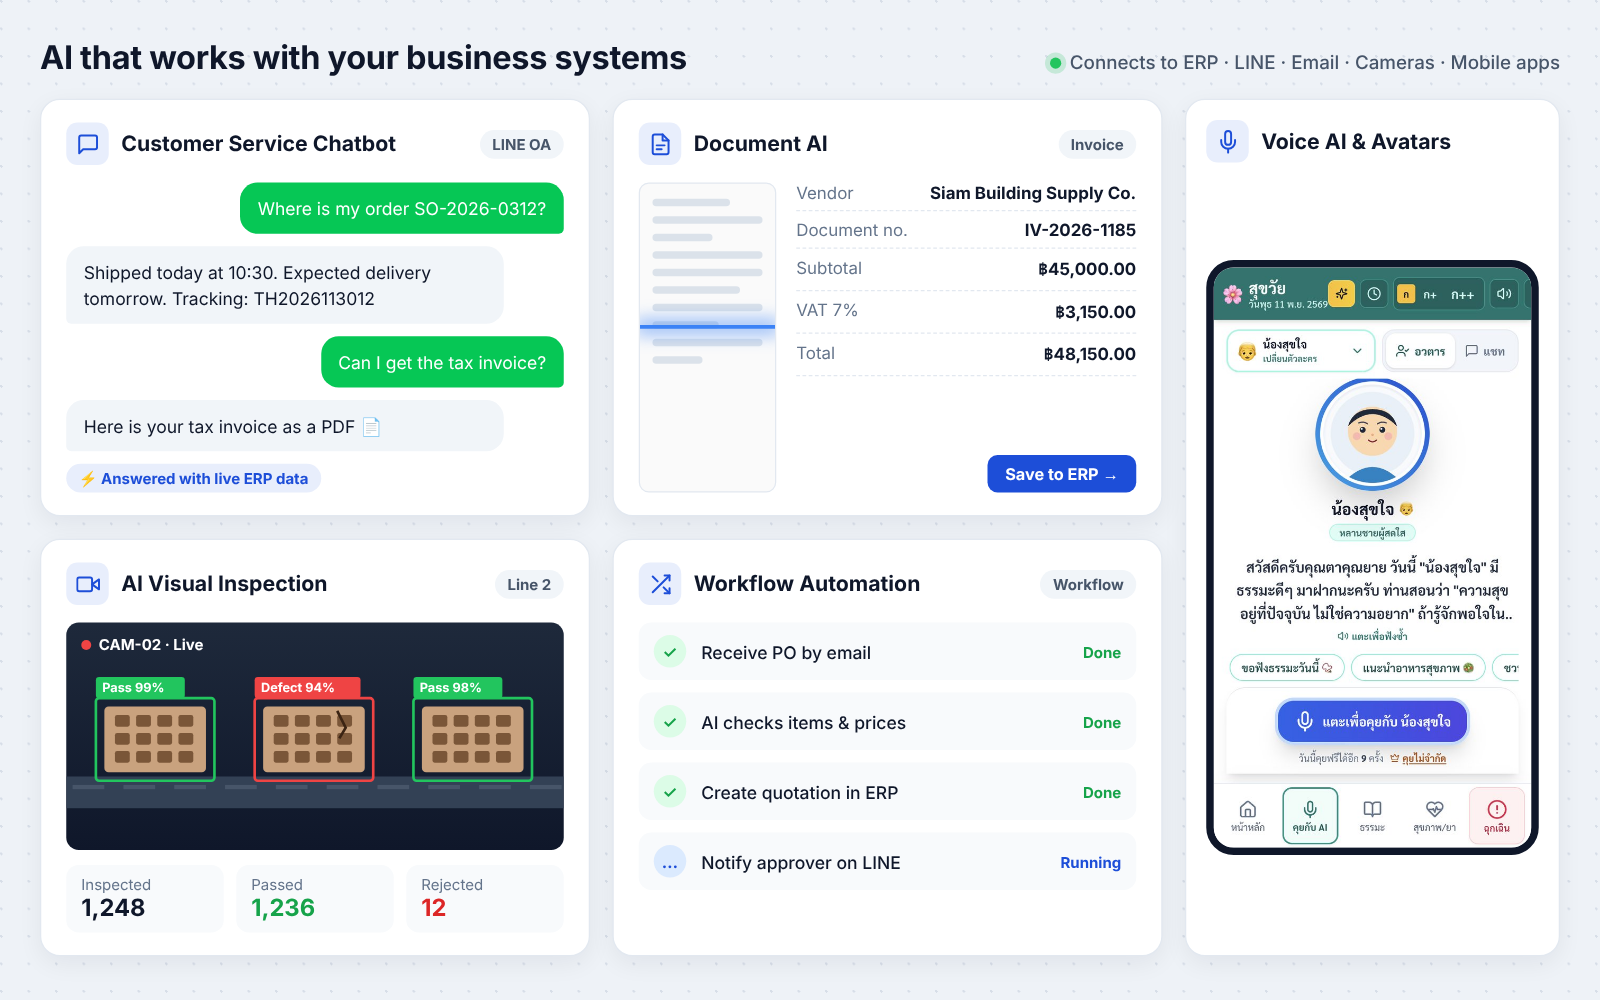
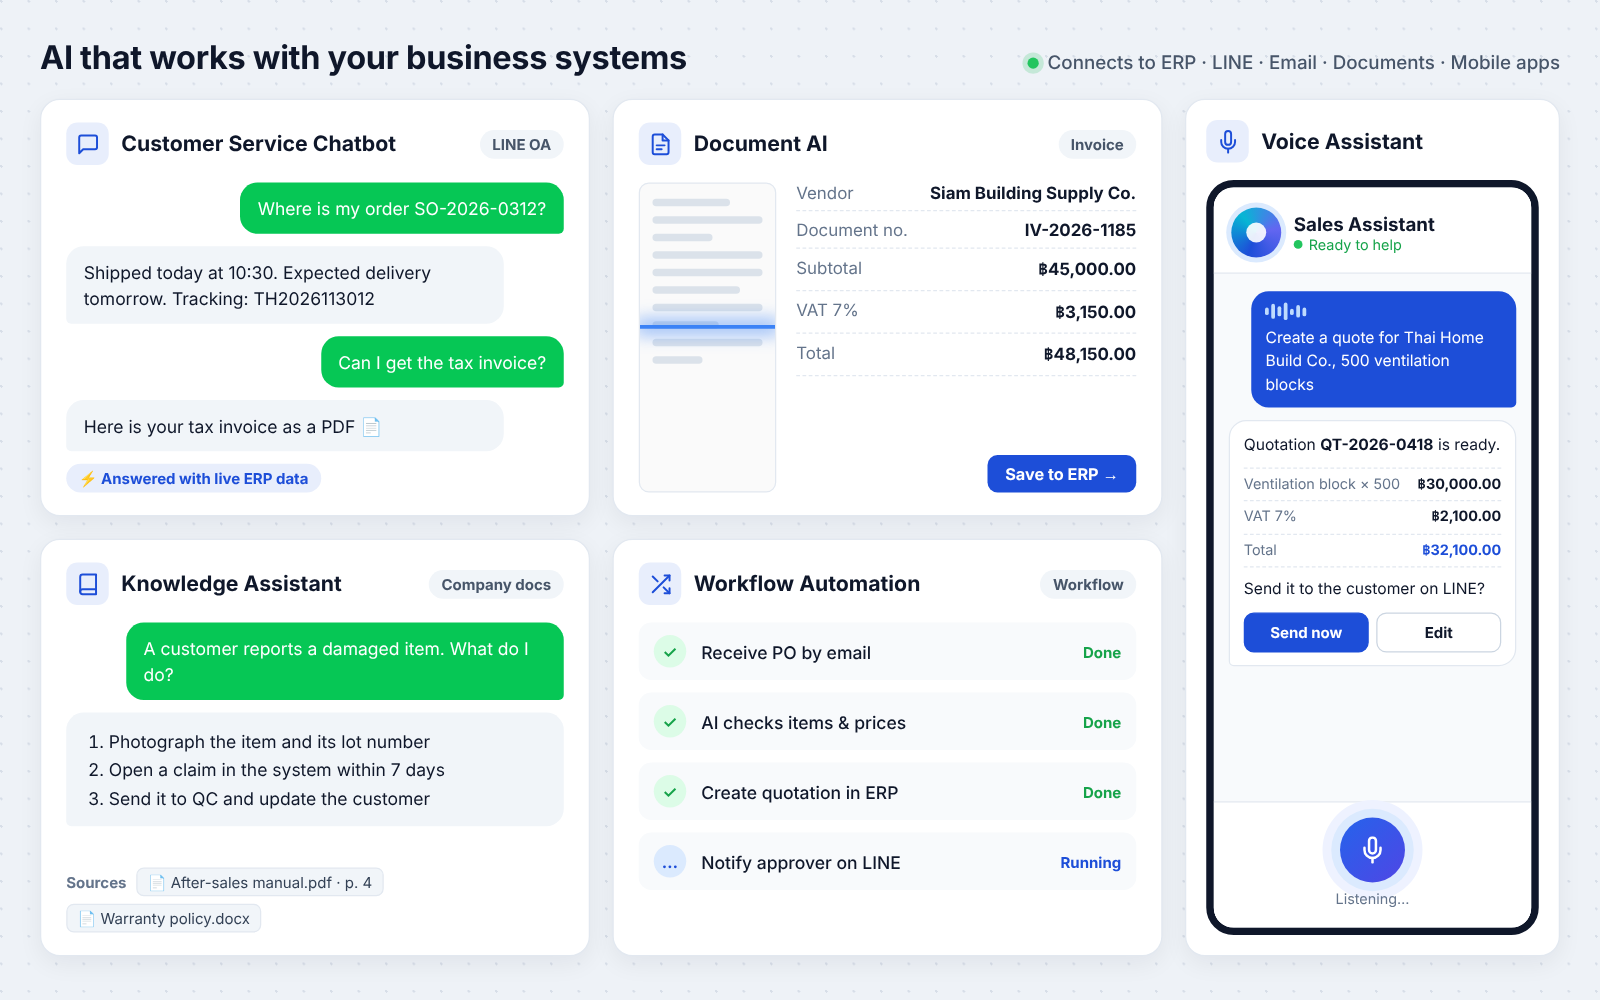
content: separate Custom AI Applications from AI & ML; business voice assistant mock (TH/EN)
- Rename section to Custom AI Applications; replace vision item with Knowledge Assistant
- Move visual inspection into AI & ML copy; add cross-link
- Illustration: drop visual-inspection card, add knowledge assistant and sales voice assistant screen

Claude-Session: https://claude.ai/code/session_01Tof1QfzcKtpyuhHxKaRS56

diff --git a/solutions/index.html b/solutions/index.html
@@ -4,7 +4,7 @@
   <meta charset="utf-8">
   <meta name="viewport" content="width=device-width, initial-scale=1.0">
   <title>Core Services — NWS</title>
-  <meta name="description" content="Core services from NWS: Ora One (Intelligent ERP with EMMY AI), B2B Managed IT Service (MSP), AI &amp; Machine Learning solutions, and custom AI services.">
+  <meta name="description" content="Core services from NWS: Ora One (Intelligent ERP with EMMY AI), B2B Managed IT Service (MSP), AI &amp; Machine Learning solutions, and custom AI applications.">
   <link rel="canonical" href="https://nwsthai.com/solutions/">
   <meta name="robots" content="index, follow">
   <meta property="og:title" content="Core Services — NWS">
@@ -195,8 +195,8 @@
             <div class="feature-tag"><span class="th">AI &amp; Machine Learning</span><span class="en">AI &amp; Machine Learning</span></div>
             <h2><span class="th">AI &amp; Machine Learning Solutions</span><span class="en">AI &amp; Machine Learning Solutions</span></h2>
             <p>
-              <span class="th">การวิเคราะห์ข้อมูลเชิงลึกสำหรับการดำเนินงานหน้างาน และโมเดลคาดการณ์ความเสี่ยง เพื่อให้องค์กรตัดสินใจได้แม่นยำ ทันเวลา และได้ผลลัพธ์ที่จับต้องได้จริง</span>
-              <span class="en">Deep data analytics for shop-floor operations and predictive risk models, so your organization can make accurate, timely decisions with tangible results.</span>
+              <span class="th">การวิเคราะห์ข้อมูลเชิงลึกสำหรับการดำเนินงานหน้างาน ระบบตรวจสอบคุณภาพด้วยกล้อง AI และโมเดลคาดการณ์ความเสี่ยง เพื่อให้องค์กรตัดสินใจได้แม่นยำ ทันเวลา และได้ผลลัพธ์ที่จับต้องได้จริง</span>
+              <span class="en">Deep data analytics for shop-floor operations, AI-powered visual inspection, and predictive risk models, so your organization can make accurate, timely decisions with tangible results.</span>
             </p>
             <ul class="checklist">
               <li>
@@ -211,8 +211,8 @@
               </li>
               <li>
                 <svg viewBox="0 0 24 24" fill="none" stroke="currentColor" stroke-width="2.5" stroke-linecap="round" stroke-linejoin="round"><path d="M22 11.08V12a10 10 0 1 1-5.93-9.14"/><polyline points="22 4 12 14.01 9 11.01"/></svg>
-                <span><strong><span class="th">ข้อมูลสู่การปฏิบัติ</span><span class="en">Actionable Insights</span></strong><br>
-                <span class="th">เปลี่ยนข้อมูลดิบให้เป็นการตัดสินใจที่ลงมือทำได้จริง</span><span class="en">Turn raw data into decisions you can act on.</span></span>
+                <span><strong><span class="th">ตรวจคุณภาพด้วยกล้อง AI</span><span class="en">AI Visual Inspection</span></strong><br>
+                <span class="th">ตรวจจับชิ้นงานและตำหนิแบบเรียลไทม์บนไลน์ผลิต</span><span class="en">Detect parts and defects in real time on the production line.</span></span>
               </li>
               <li>
                 <svg viewBox="0 0 24 24" fill="none" stroke="currentColor" stroke-width="2.5" stroke-linecap="round" stroke-linejoin="round"><path d="M22 11.08V12a10 10 0 1 1-5.93-9.14"/><polyline points="22 4 12 14.01 9 11.01"/></svg>
@@ -234,10 +234,10 @@
         <div class="feature">
           <div>
             <div class="feature-tag"><span class="th">AI Services</span><span class="en">AI Services</span></div>
-            <h2><span class="th">บริการพัฒนา AI สำหรับทุกธุรกิจ</span><span class="en">Custom AI Services for Every Business</span></h2>
+            <h2><span class="th">พัฒนาแอปพลิเคชัน AI ตามโจทย์</span><span class="en">Custom AI Applications</span></h2>
             <p>
-              <span class="th">เราออกแบบและพัฒนาโซลูชัน AI ให้ตรงกับโจทย์ของแต่ละองค์กร ไม่ว่าจะเป็นงานบริการ การผลิต สุขภาพ หรืองานภายในองค์กร ตั้งแต่วางแนวคิด พัฒนา เชื่อมต่อกับระบบเดิม ไปจนถึงดูแลหลังใช้งานจริง</span>
-              <span class="en">We design and build AI solutions around each organization’s needs, whether in services, manufacturing, healthcare, or internal operations. We handle everything from concept and development to integration with your existing systems and ongoing support.</span>
+              <span class="th">เราออกแบบและพัฒนาแอปพลิเคชัน AI ที่คนในองค์กรและลูกค้าใช้งานได้จริงทุกวัน ไม่ว่าจะเป็นงานบริการ การขาย สุขภาพ หรืองานภายในองค์กร ตั้งแต่วางแนวคิด พัฒนา เชื่อมต่อกับระบบเดิม ไปจนถึงดูแลหลังใช้งานจริง หากต้องการวิเคราะห์ข้อมูลเชิงลึก โมเดลคาดการณ์ หรือกล้องตรวจคุณภาพ ดูที่ AI &amp; Machine Learning Solutions ด้านบน</span>
+              <span class="en">We design and build AI applications that your staff and customers use every day, in services, sales, healthcare, or internal operations. We handle everything from concept and development to integration with your existing systems and ongoing support. For deep data analytics, predictive models, or visual inspection, see AI &amp; Machine Learning Solutions above.</span>
             </p>
             <ul class="checklist">
               <li>
@@ -247,13 +247,13 @@
               </li>
               <li>
                 <svg viewBox="0 0 24 24" fill="none" stroke="currentColor" stroke-width="2.5" stroke-linecap="round" stroke-linejoin="round"><path d="M22 11.08V12a10 10 0 1 1-5.93-9.14"/><polyline points="22 4 12 14.01 9 11.01"/></svg>
-                <span><strong><span class="th">AI ด้านภาพและวิดีโอ</span><span class="en">Computer Vision</span></strong><br>
-                <span class="th">ตรวจจับ นับจำนวน และตรวจสอบคุณภาพจากกล้องหรือภาพถ่าย</span><span class="en">Detection, counting, and quality inspection from cameras and images.</span></span>
+                <span><strong><span class="th">ผู้ช่วยความรู้ในองค์กร</span><span class="en">Knowledge Assistant</span></strong><br>
+                <span class="th">ถามตอบจากคู่มือ นโยบาย และเอกสารภายใน พร้อมบอกแหล่งอ้างอิง</span><span class="en">Answers from your manuals, policies, and internal documents, with sources.</span></span>
               </li>
               <li>
                 <svg viewBox="0 0 24 24" fill="none" stroke="currentColor" stroke-width="2.5" stroke-linecap="round" stroke-linejoin="round"><path d="M22 11.08V12a10 10 0 1 1-5.93-9.14"/><polyline points="22 4 12 14.01 9 11.01"/></svg>
-                <span><strong><span class="th">AI สำหรับเอกสารและข้อมูล</span><span class="en">Document &amp; Data AI</span></strong><br>
-                <span class="th">อ่านเอกสาร สรุปเนื้อหา ค้นหาความรู้ในองค์กร และวิเคราะห์ข้อมูล</span><span class="en">Read documents, summarize content, search company knowledge, and analyze data.</span></span>
+                <span><strong><span class="th">AI สำหรับเอกสาร</span><span class="en">Document AI</span></strong><br>
+                <span class="th">อ่านใบแจ้งหนี้ ใบสั่งซื้อ และสัญญา ดึงข้อมูลสำคัญและสรุปเนื้อหาอัตโนมัติ</span><span class="en">Read invoices, purchase orders, and contracts; extract key data and summarize automatically.</span></span>
               </li>
               <li>
                 <svg viewBox="0 0 24 24" fill="none" stroke="currentColor" stroke-width="2.5" stroke-linecap="round" stroke-linejoin="round"><path d="M22 11.08V12a10 10 0 1 1-5.93-9.14"/><polyline points="22 4 12 14.01 9 11.01"/></svg>
@@ -263,8 +263,8 @@
             </ul>
           </div>
           <div class="feature-media">
-            <img class="th" src="/assets/ai-services-th.png" alt="ตัวอย่างงาน AI สำหรับธุรกิจ: แชทบอท AI อ่านเอกสาร กล้อง AI ตรวจคุณภาพ ระบบอัตโนมัติ และผู้ช่วยเสียง" width="1600" height="1000" loading="lazy">
-            <img class="en" src="/assets/ai-services-en.png" alt="Business AI examples: customer chatbot, document AI, visual inspection, workflow automation, and voice AI" width="1600" height="1000" loading="lazy">
+            <img class="th" src="/assets/ai-services-th.png" alt="ตัวอย่างแอปพลิเคชัน AI สำหรับธุรกิจ: แชทบอท AI อ่านเอกสาร ผู้ช่วยความรู้ในองค์กร ระบบอัตโนมัติ และผู้ช่วยฝ่ายขายสั่งงานด้วยเสียง" width="1600" height="1000" loading="lazy">
+            <img class="en" src="/assets/ai-services-en.png" alt="Business AI application examples: customer chatbot, document AI, knowledge assistant, workflow automation, and a voice sales assistant" width="1600" height="1000" loading="lazy">
           </div>
         </div>
       </div>
@@ -309,7 +309,7 @@
             <li><a href="/solutions/#ora-one"><span class="th">Ora One (Intelligent ERP)</span><span class="en">Ora One (Intelligent ERP)</span></a></li>
             <li><a href="/solutions/#msp"><span class="th">B2B Managed IT (MSP)</span><span class="en">B2B Managed IT (MSP)</span></a></li>
             <li><a href="/solutions/#ai"><span class="th">AI &amp; Machine Learning</span><span class="en">AI &amp; Machine Learning</span></a></li>
-            <li><a href="/solutions/#ai-services"><span class="th">บริการพัฒนา AI</span><span class="en">Custom AI Services</span></a></li>
+            <li><a href="/solutions/#ai-services"><span class="th">พัฒนาแอปพลิเคชัน AI</span><span class="en">Custom AI Applications</span></a></li>
           </ul>
         </div>
         <div>

diff --git a/about/index.html b/about/index.html
@@ -201,7 +201,7 @@
             <li><a href="/solutions/#ora-one"><span class="th">Ora One (Intelligent ERP)</span><span class="en">Ora One (Intelligent ERP)</span></a></li>
             <li><a href="/solutions/#msp"><span class="th">B2B Managed IT (MSP)</span><span class="en">B2B Managed IT (MSP)</span></a></li>
             <li><a href="/solutions/#ai"><span class="th">AI &amp; Machine Learning</span><span class="en">AI &amp; Machine Learning</span></a></li>
-            <li><a href="/solutions/#ai-services"><span class="th">บริการพัฒนา AI</span><span class="en">Custom AI Services</span></a></li>
+            <li><a href="/solutions/#ai-services"><span class="th">พัฒนาแอปพลิเคชัน AI</span><span class="en">Custom AI Applications</span></a></li>
           </ul>
         </div>
         <div>

diff --git a/contact/index.html b/contact/index.html
@@ -186,7 +186,7 @@
             <li><a href="/solutions/#ora-one"><span class="th">Ora One (Intelligent ERP)</span><span class="en">Ora One (Intelligent ERP)</span></a></li>
             <li><a href="/solutions/#msp"><span class="th">B2B Managed IT (MSP)</span><span class="en">B2B Managed IT (MSP)</span></a></li>
             <li><a href="/solutions/#ai"><span class="th">AI &amp; Machine Learning</span><span class="en">AI &amp; Machine Learning</span></a></li>
-            <li><a href="/solutions/#ai-services"><span class="th">บริการพัฒนา AI</span><span class="en">Custom AI Services</span></a></li>
+            <li><a href="/solutions/#ai-services"><span class="th">พัฒนาแอปพลิเคชัน AI</span><span class="en">Custom AI Applications</span></a></li>
           </ul>
         </div>
         <div>

diff --git a/index.html b/index.html
@@ -293,7 +293,7 @@
             <li><a href="/solutions/#ora-one"><span class="th">Ora One (Intelligent ERP)</span><span class="en">Ora One (Intelligent ERP)</span></a></li>
             <li><a href="/solutions/#msp"><span class="th">B2B Managed IT (MSP)</span><span class="en">B2B Managed IT (MSP)</span></a></li>
             <li><a href="/solutions/#ai"><span class="th">AI &amp; Machine Learning</span><span class="en">AI &amp; Machine Learning</span></a></li>
-            <li><a href="/solutions/#ai-services"><span class="th">บริการพัฒนา AI</span><span class="en">Custom AI Services</span></a></li>
+            <li><a href="/solutions/#ai-services"><span class="th">พัฒนาแอปพลิเคชัน AI</span><span class="en">Custom AI Applications</span></a></li>
           </ul>
         </div>
         <div>
